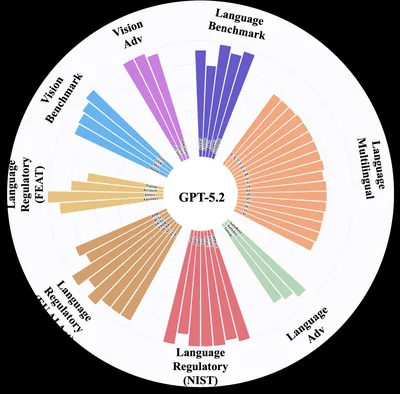
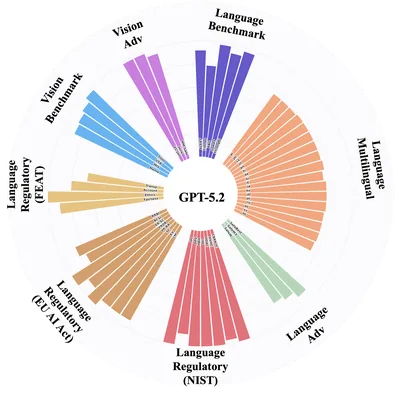
Fix publication image transparency

Changed region(s): [[0.0, 0.0, 1.0, 1.0]]

diff --git a/assets/scripts/publications.js b/assets/scripts/publications.js
@@ -4,17 +4,17 @@ function renderPublications() {
       <h2 class="section-heading">Publications</h2>
       <div class="publication-list">
         <article class="publication-item">
-          <a class="paper-thumb" href="https://ammmob.github.io/PixelSmile/" target="_blank" rel="noreferrer" aria-label="Visit the PixelSmile project page"><img src="assets/images/publications/pixelsmile/teaser.webp" alt="PixelSmile teaser" loading="lazy"></a>
+          <a class="paper-thumb" href="https://ammmob.github.io/PixelSmile/" target="_blank" rel="noreferrer" aria-label="Visit the PixelSmile project page"><img src="assets/images/publications/pixelsmile/teaser.webp?v=2" alt="PixelSmile teaser" loading="lazy"></a>
           <div><h3>PixelSmile: Toward Fine-Grained Facial Expression Editing</h3><p class="authors"><strong>Jiabin Hua*</strong>, Hengyuan Xu*, Aojie Li, Wei Cheng, Gang Yu, et al.</p><p class="paper-summary">Enables continuous intensity control, compound expression editing, and identity preservation, accompanied by the dual-domain FFE Dataset and FFE-Bench for both realistic and anime faces.</p><div class="link-row"><a href="https://arxiv.org/abs/2603.25728" target="_blank" rel="noreferrer">Paper</a><a href="https://ammmob.github.io/PixelSmile/" target="_blank" rel="noreferrer">Project</a><a href="https://github.com/Ammmob/PixelSmile" target="_blank" rel="noreferrer">Code · <span data-star-repo="Ammmob/PixelSmile">—</span> ★</a></div></div>
         </article>
         <article class="publication-item">
           <a class="paper-thumb paper-collage" href="https://xsafeai.github.io/AI-safety-report/" target="_blank" rel="noreferrer" aria-label="Visit the AI Safety Report project page">
-            <img src="assets/images/publications/ai-safety-report/spec_1.webp" alt="" loading="lazy">
-            <img src="assets/images/publications/ai-safety-report/spec_3.webp" alt="" loading="lazy">
-            <img src="assets/images/publications/ai-safety-report/spec_4.webp" alt="" loading="lazy">
-            <img src="assets/images/publications/ai-safety-report/spec_5.webp" alt="" loading="lazy">
-            <img src="assets/images/publications/ai-safety-report/spec_6.webp" alt="" loading="lazy">
-            <img src="assets/images/publications/ai-safety-report/spec_7.webp" alt="" loading="lazy">
+            <img src="assets/images/publications/ai-safety-report/spec_1.webp?v=2" alt="" loading="lazy">
+            <img src="assets/images/publications/ai-safety-report/spec_3.webp?v=2" alt="" loading="lazy">
+            <img src="assets/images/publications/ai-safety-report/spec_4.webp?v=2" alt="" loading="lazy">
+            <img src="assets/images/publications/ai-safety-report/spec_5.webp?v=2" alt="" loading="lazy">
+            <img src="assets/images/publications/ai-safety-report/spec_6.webp?v=2" alt="" loading="lazy">
+            <img src="assets/images/publications/ai-safety-report/spec_7.webp?v=2" alt="" loading="lazy">
           </a>
           <div><h3>A Safety Report on GPT-5.2, Gemini 3 Pro, Qwen3-VL, Grok 4.1 Fast, Nano Banana Pro, and Seedream 4.5</h3><p class="authors">Xingjun Ma, Yixu Wang, Hengyuan Xu, et al., including <strong>Jiabin Hua</strong></p><p class="paper-summary">A unified evaluation of six frontier models across language, vision-language, and image generation, covering benchmark safety, adversarial robustness, multilingual generalization, and regulatory compliance.</p><div class="link-row"><a href="https://arxiv.org/abs/2601.10527" target="_blank" rel="noreferrer">Paper</a><a href="https://xsafeai.github.io/AI-safety-report/" target="_blank" rel="noreferrer">Project</a><a href="https://github.com/XSafeAI/AI-safety-report" target="_blank" rel="noreferrer">Code · <span data-star-repo="XSafeAI/AI-safety-report">—</span> ★</a></div></div>
         </article>

diff --git a/assets/styles/publications.css b/assets/styles/publications.css
@@ -5,7 +5,7 @@
 .paper-thumb { position: relative; width: 100%; height: 286px; flex: 0 0 auto; display: block; border-bottom: 1px solid var(--line); background: #f7f8fa; overflow: hidden; }
 .paper-thumb img { width: 100%; height: 100%; display: block; object-fit: contain; }
 .paper-collage { padding: 2px; display: grid; grid-template-columns: repeat(3, 1fr); grid-template-rows: repeat(2, 1fr); gap: 2px; background: #eef1f5; }
-.paper-collage img { min-width: 0; min-height: 0; object-fit: contain; background: #fff; }
+.paper-collage img { min-width: 0; min-height: 0; object-fit: contain; background: transparent; }
 .publication-item h3 { margin: 0 0 7px; font-size: 17px; line-height: 1.42; }
 .publication-item p { margin: 4px 0; }
 .authors, .paper-summary, .paper-coming { color: var(--muted); font-size: 13px; }

diff --git a/assets/styles/main.css b/assets/styles/main.css
@@ -58,7 +58,6 @@ nav a { color: var(--muted); font-size: 13px; }
 :root[data-theme="dark"] .publication-item:hover { border-color: #476782; box-shadow: 0 14px 34px rgba(0, 0, 0, .24); }
 :root[data-theme="dark"] .paper-thumb { background: var(--surface); }
 :root[data-theme="dark"] .paper-collage { background: #283442; }
-:root[data-theme="dark"] .paper-collage img { background: #fff; }
 :root[data-theme="dark"] .social-links a { background: rgba(23, 30, 39, .82); box-shadow: 0 4px 14px rgba(0, 0, 0, .12); }
 :root[data-theme="dark"] .about-copy a:hover strong { color: #a9d4ff; border-color: #a9d4ff; background: rgba(120, 183, 242, .08); }
 :root[data-theme="dark"] .honor-table > div:hover { background: rgba(120, 183, 242, .06); }
